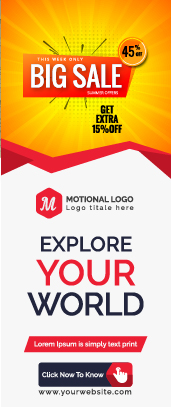
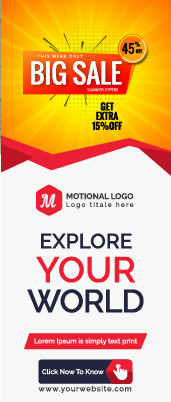
new changes

diff --git a/index.html b/index.html
@@ -461,13 +461,13 @@
         
         <div class="addsBanner-section top-161">
             <div class="addbanner2 slider-arrow mb-3">
-                <img src="images/nb5-219x338.jpg"  class="img-fluid h-385" alt="truck"/>
-                <img src="images/social-media.jpg"  class="img-fluid h-385" alt="truck"/>
+                <img src="images/170x410.jpg"  class="img-fluid " alt="truck"/>
+                <img src="images/170x410.jpg"  class="img-fluid " alt="truck"/>
             </div>
             
             <div class="addbanner2 slider-arrow">
-                <img src="images/nb5-219x338.jpg"  class="img-fluid h-385" alt="truck"/>
-                <img src="images/social-media.jpg"  class="img-fluid h-385" alt="truck"/>
+                <img src="images/170x410.jpg"  class="img-fluid " alt="truck"/>
+                <img src="images/170x410.jpg"  class="img-fluid" alt="truck"/>
             </div>
         </div>
         <div class="container">
@@ -770,12 +770,12 @@
 
         <div class="addsBanner-section righttopb-05 top-161">
             <div class="addbanner3 slider-arrow mb-3">
-                <img src="images/nb5-219x338.jpg"  class="img-fluid h-385" alt="truck" />
-                <img src="images/social-media.jpg"  class="img-fluid h-385" alt="truck" />
+                <img src="images/170x410.jpg"  class="img-fluid" alt="truck" />
+                <img src="images/170x410.jpg"  class="img-fluid" alt="truck" />
             </div>            
             <div class="addbanner3 slider-arrow">
-                <img src="images/nb5-219x338.jpg"  class="img-fluid h-385" alt="truck"/>
-                <img src="images/social-media.jpg" class="img-fluid h-385" alt="truck"/>
+                <img src="images/170x410.jpg"  class="img-fluid" alt="truck"/>
+                <img src="images/170x410.jpg" class="img-fluid" alt="truck"/>
             </div>
         </div>        
     </section>
